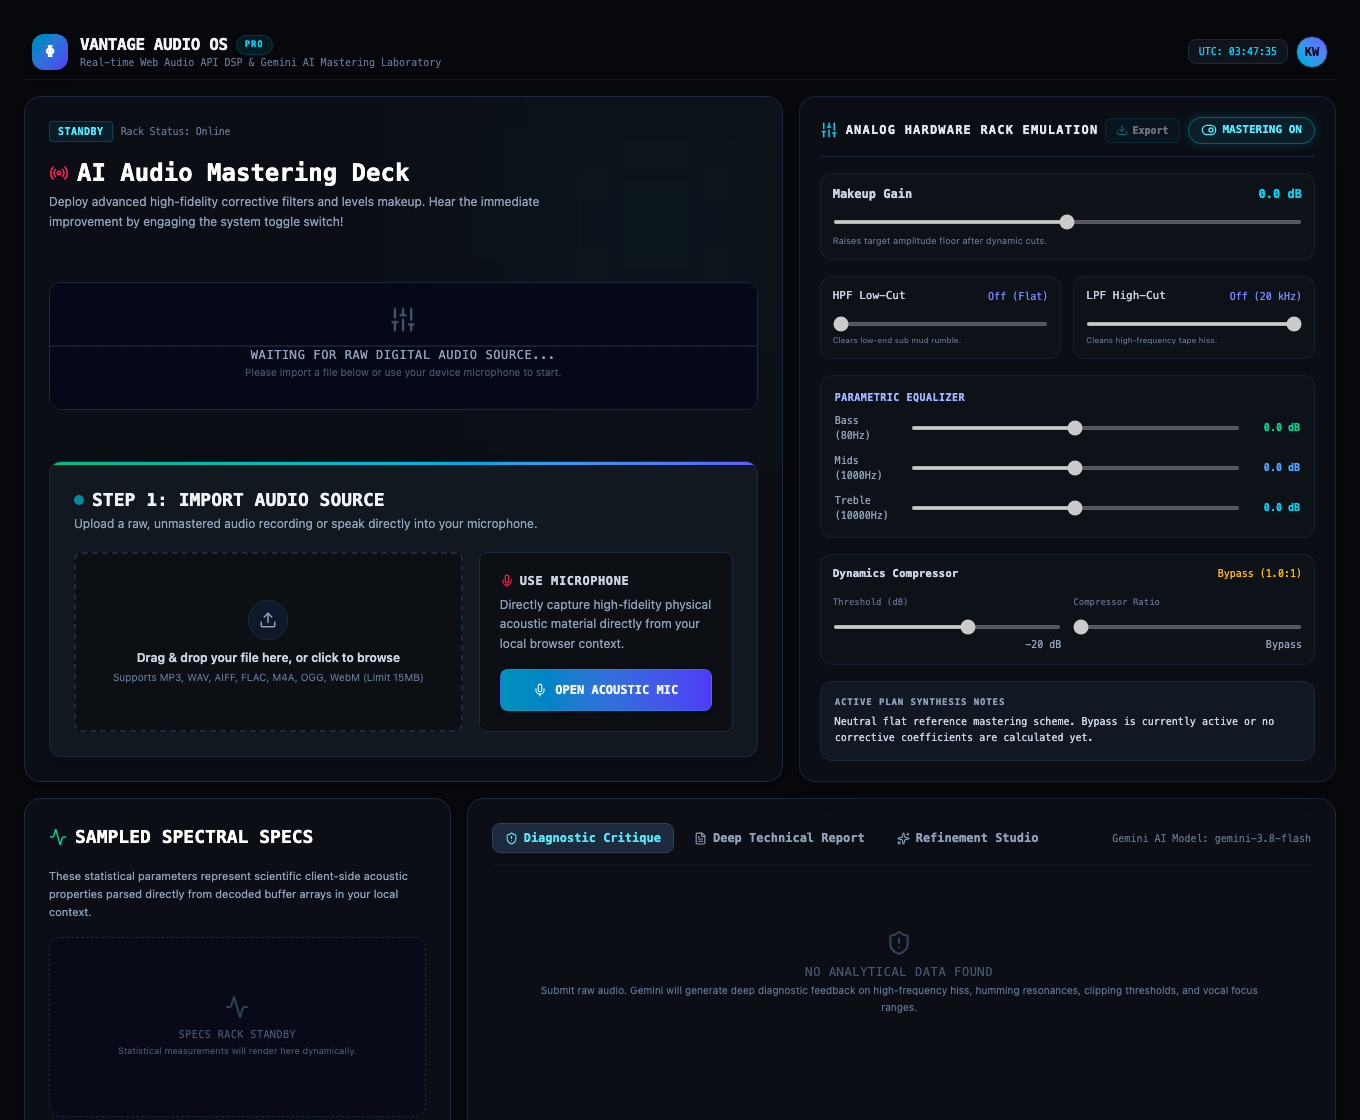
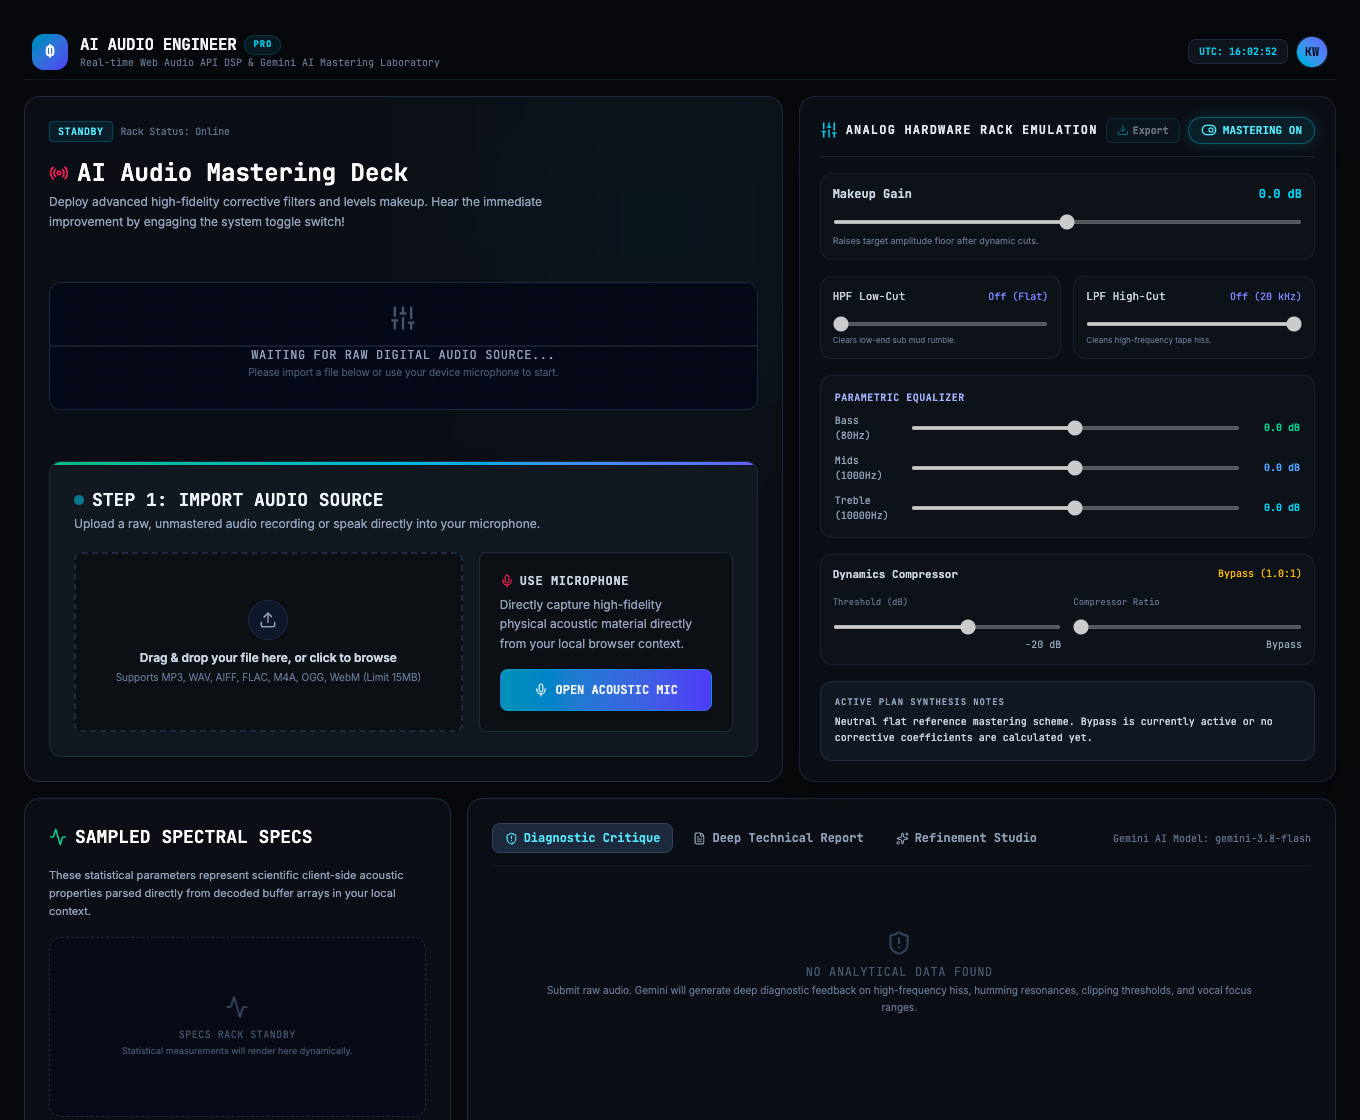
chore: standardize app branding and refresh UI assets
- Align application titles, header branding, and studio labels
- Refresh UI screenshot in documentation

diff --git a/src/App.tsx b/src/App.tsx
@@ -241,7 +241,7 @@ export default function App() {
 
   return (
     <div
-      id="vantage-workspace"
+      id="audio-engineer-workspace"
       className="min-h-screen bg-[#06080b] text-slate-100 p-4 md:p-6 flex flex-col justify-between font-sans"
     >
       {/* Header */}
@@ -252,7 +252,7 @@ export default function App() {
           </div>
           <div>
             <span className="text-base font-mono font-bold tracking-tight text-slate-100 flex items-center gap-2">
-              VANTAGE AUDIO OS
+              AI AUDIO ENGINEER
               <span className="px-2 py-0.5 bg-cyan-500/10 border border-cyan-500/20 text-cyan-400 font-mono text-[9px] rounded-full uppercase tracking-widest font-black">
                 PRO
               </span>
@@ -708,7 +708,7 @@ export default function App() {
               : "Engine: Web Audio 32-bit Float"}
           </span>
         </div>
-        <div>Copyright © 2026 Vantage Systems Corp.</div>
+        <div>AI Audio Engineer • Audio Mastering Workstation</div>
       </footer>
 
       {/* Studio Master Audio Export Modal */}

diff --git a/src/components/ExportModal.tsx b/src/components/ExportModal.tsx
@@ -263,7 +263,7 @@ export function ExportModal({
               <Sliders size={16} className={applyDsp ? "text-cyan-400" : "text-slate-600"} />
               <div>
                 <span className="font-mono font-bold text-xs text-slate-200 block">
-                  Apply Vantage DSP Chain
+                  Apply Mastering DSP Chain
                 </span>
                 <span className="text-[10px] text-slate-400 font-sans">
                   Include preamp gain, highpass/lowpass filters, 3-band EQ, and dynamics compressor

diff --git a/index.html b/index.html
@@ -3,7 +3,7 @@
   <head>
     <meta charset="UTF-8" />
     <meta name="viewport" content="width=device-width, initial-scale=1.0" />
-    <title>Vantage Audio OS - AI Mastering Studio</title>
+    <title>AI Audio Engineer - Audio Mastering Studio</title>
     <link
       rel="icon"
       type="image/svg+xml"

diff --git a/README.md b/README.md
@@ -1,6 +1,6 @@
 <div align="center">
 
-# AI Audio Engineer (Vantage Audio OS)
+# AI Audio Engineer
 
 An interactive, studio-grade audio mastering, acoustic critique, and visualization workstation combining real-time browser Web Audio DSP with Gemini 3.8 Flash acoustic intelligence.
 
